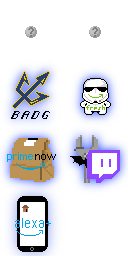
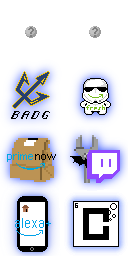
add carbonated

Changed region(s): [[0.5312, 0.75, 0.9688, 1.0], [0.125, 0.75, 0.375, 1.0], [0.375, 0.7812, 0.4062, 0.9688]]

diff --git a/src/scenes/SpaceScene.js b/src/scenes/SpaceScene.js
@@ -25,8 +25,8 @@ const WORLDS = [
     key: "badg",
     frames: [2],
     position: {
-      xOffset: -200,
-      yOffset: -140,
+      xOffset: -250,
+      yOffset: -130,
     },
     world: {
       stars: [1],
@@ -38,8 +38,8 @@ const WORLDS = [
     key: "amazonfresh",
     frames: [3],
     position: {
-      xOffset: 100,
-      yOffset: -195,
+      xOffset: 30,
+      yOffset: -185,
     },
     world: {
       stars: [1],
@@ -51,8 +51,8 @@ const WORLDS = [
     key: "amazonprimenow",
     frames: [4],
     position: {
-      xOffset: 405,
-      yOffset: -105,
+      xOffset: 305,
+      yOffset: -190,
     },
     world: {
       stars: [1, 2],
@@ -69,8 +69,8 @@ const WORLDS = [
     key: "twitch",
     frames: [5],
     position: {
-      xOffset: 180,
-      yOffset: 15,
+      xOffset: 270,
+      yOffset: -5,
     },
     world: {
       stars: [2],
@@ -82,8 +82,8 @@ const WORLDS = [
     key: "alexamobilehome",
     frames: [6],
     position: {
-      xOffset: -110,
-      yOffset: 100,
+      xOffset: -25,
+      yOffset: 55,
     },
     world: {
       stars: [2],
@@ -91,6 +91,19 @@ const WORLDS = [
       info: ["full-stack sde", "alexa+", "for you content tooling"],
     },
   },
+  {
+    key: "carbonated",
+    frames: [7],
+    position: {
+      xOffset: 45,
+      yOffset: 190,
+    },
+    world: {
+      stars: [2],
+      title: ["carbonated", "[game/tooling backend]"],
+      info: ["senior backend sde", "genai pipeline", "in game audio", "tooling"]
+    }
+  }
 ];
 
 export class SpaceScene extends Phaser.Scene {
